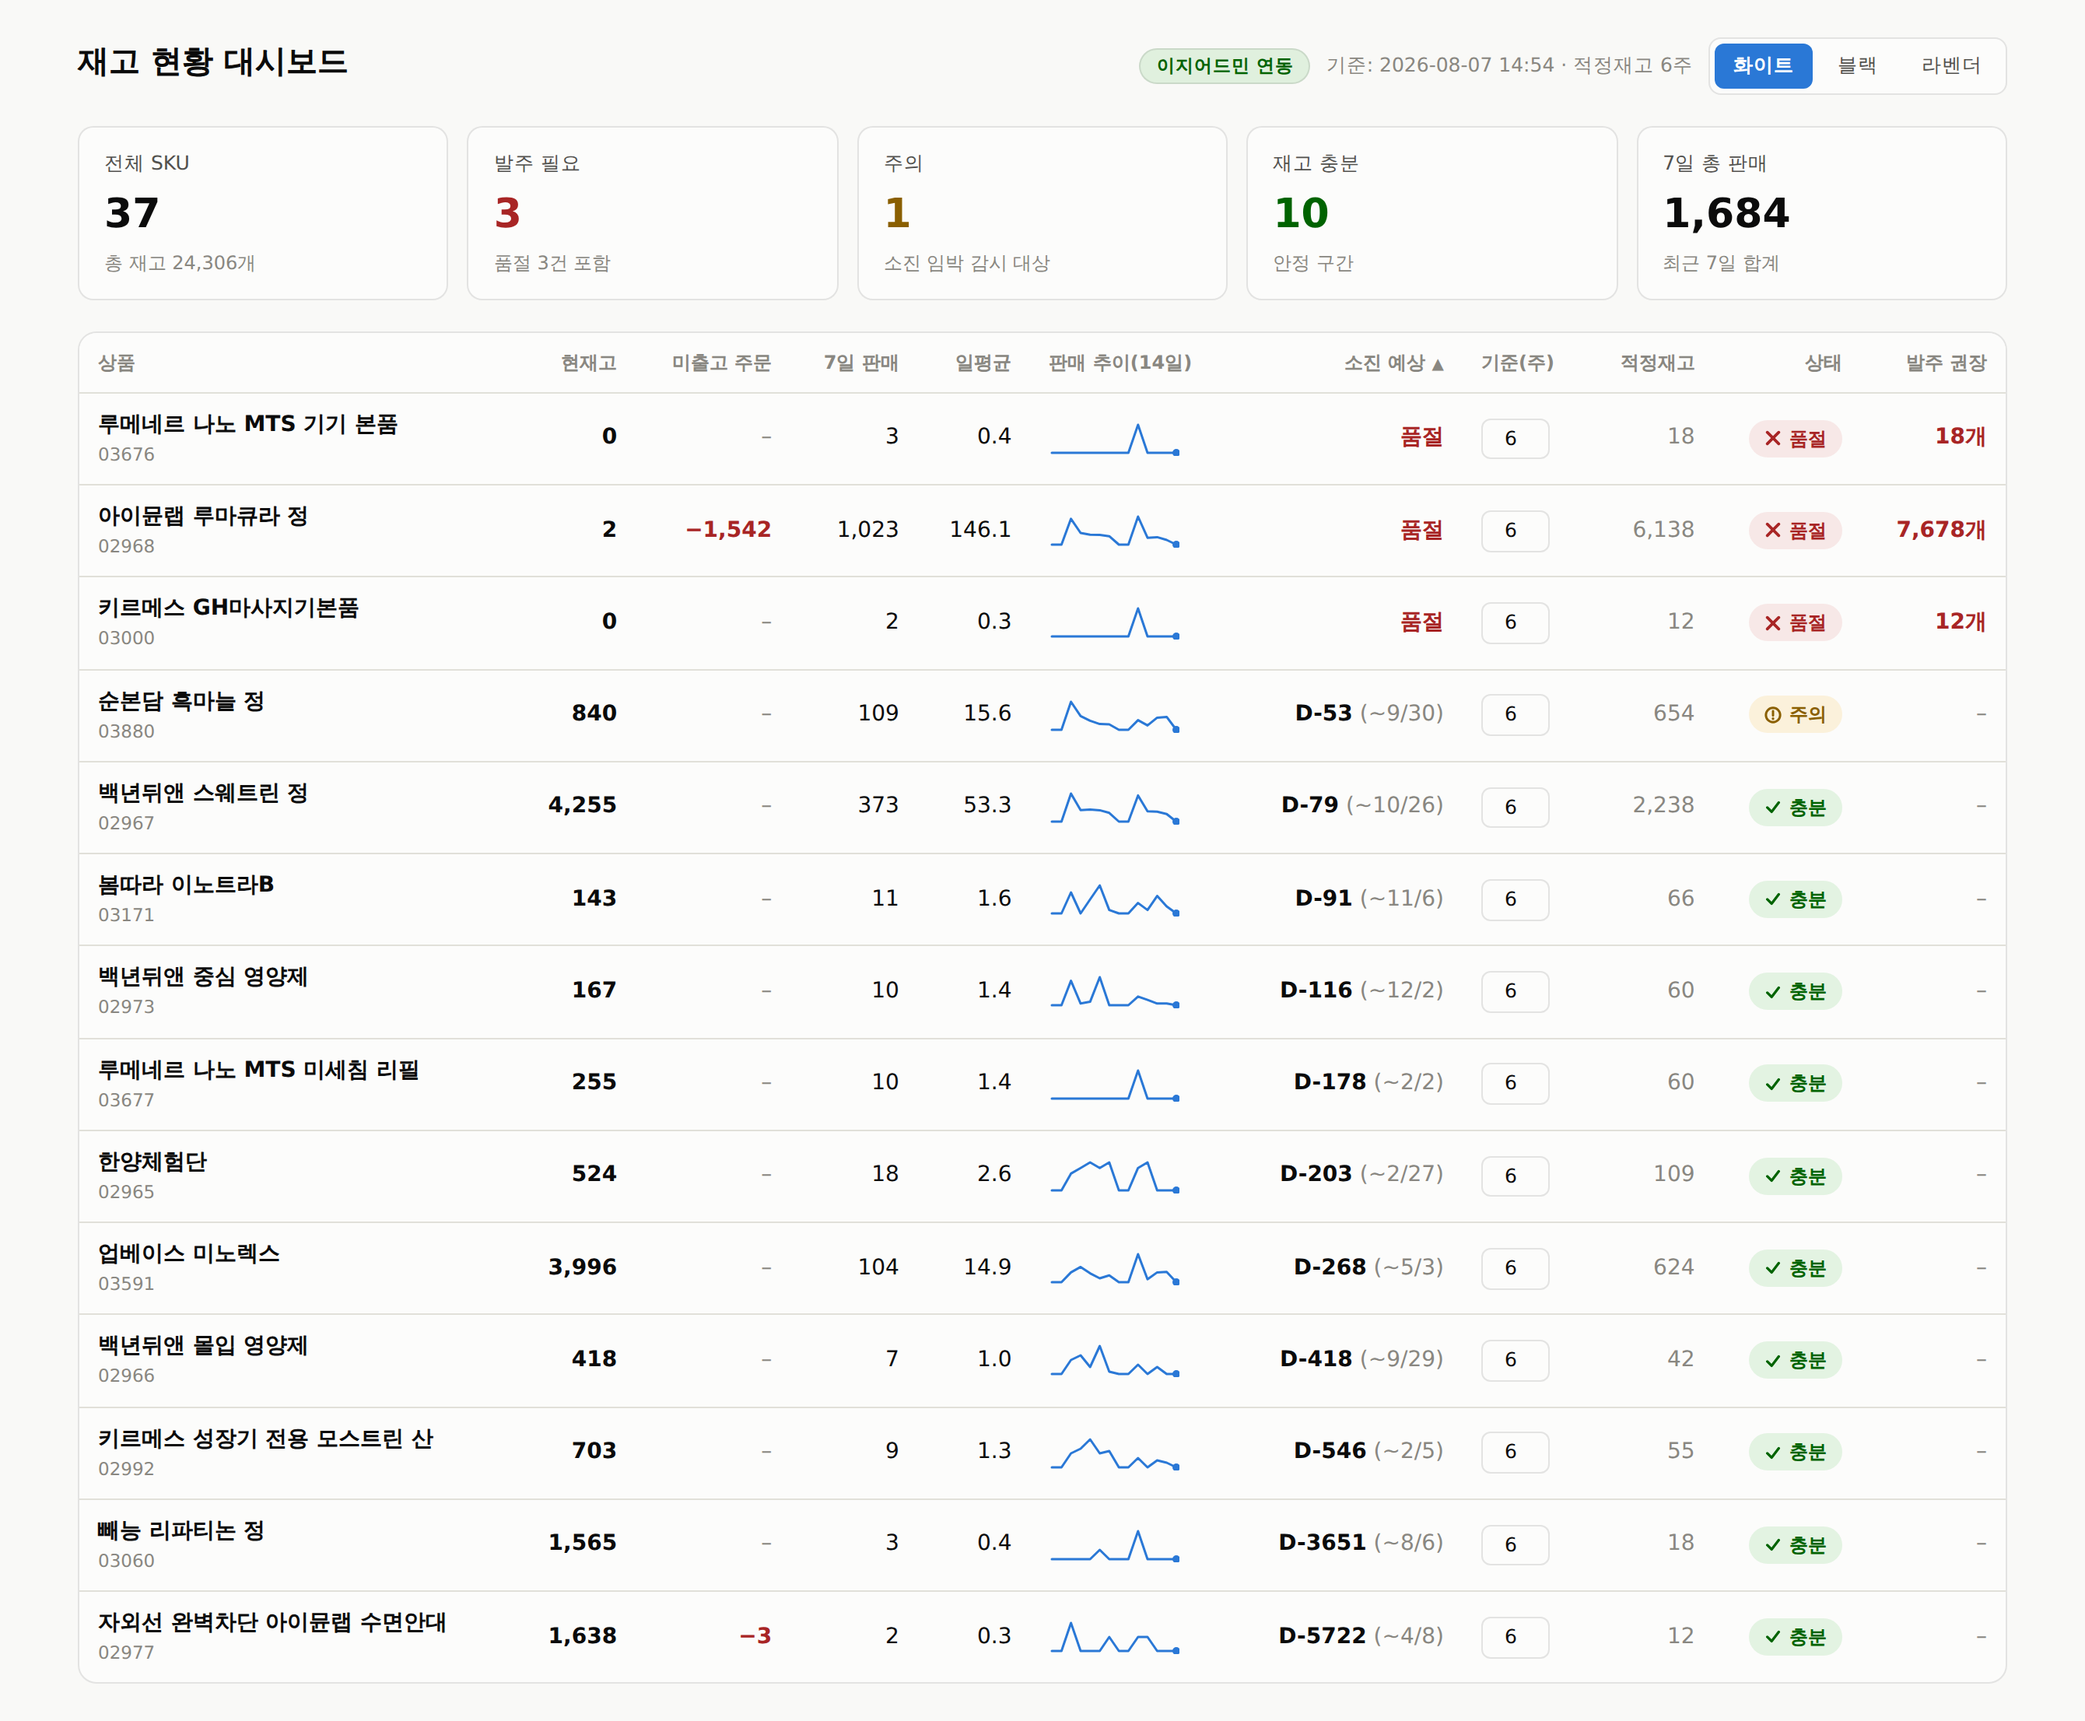
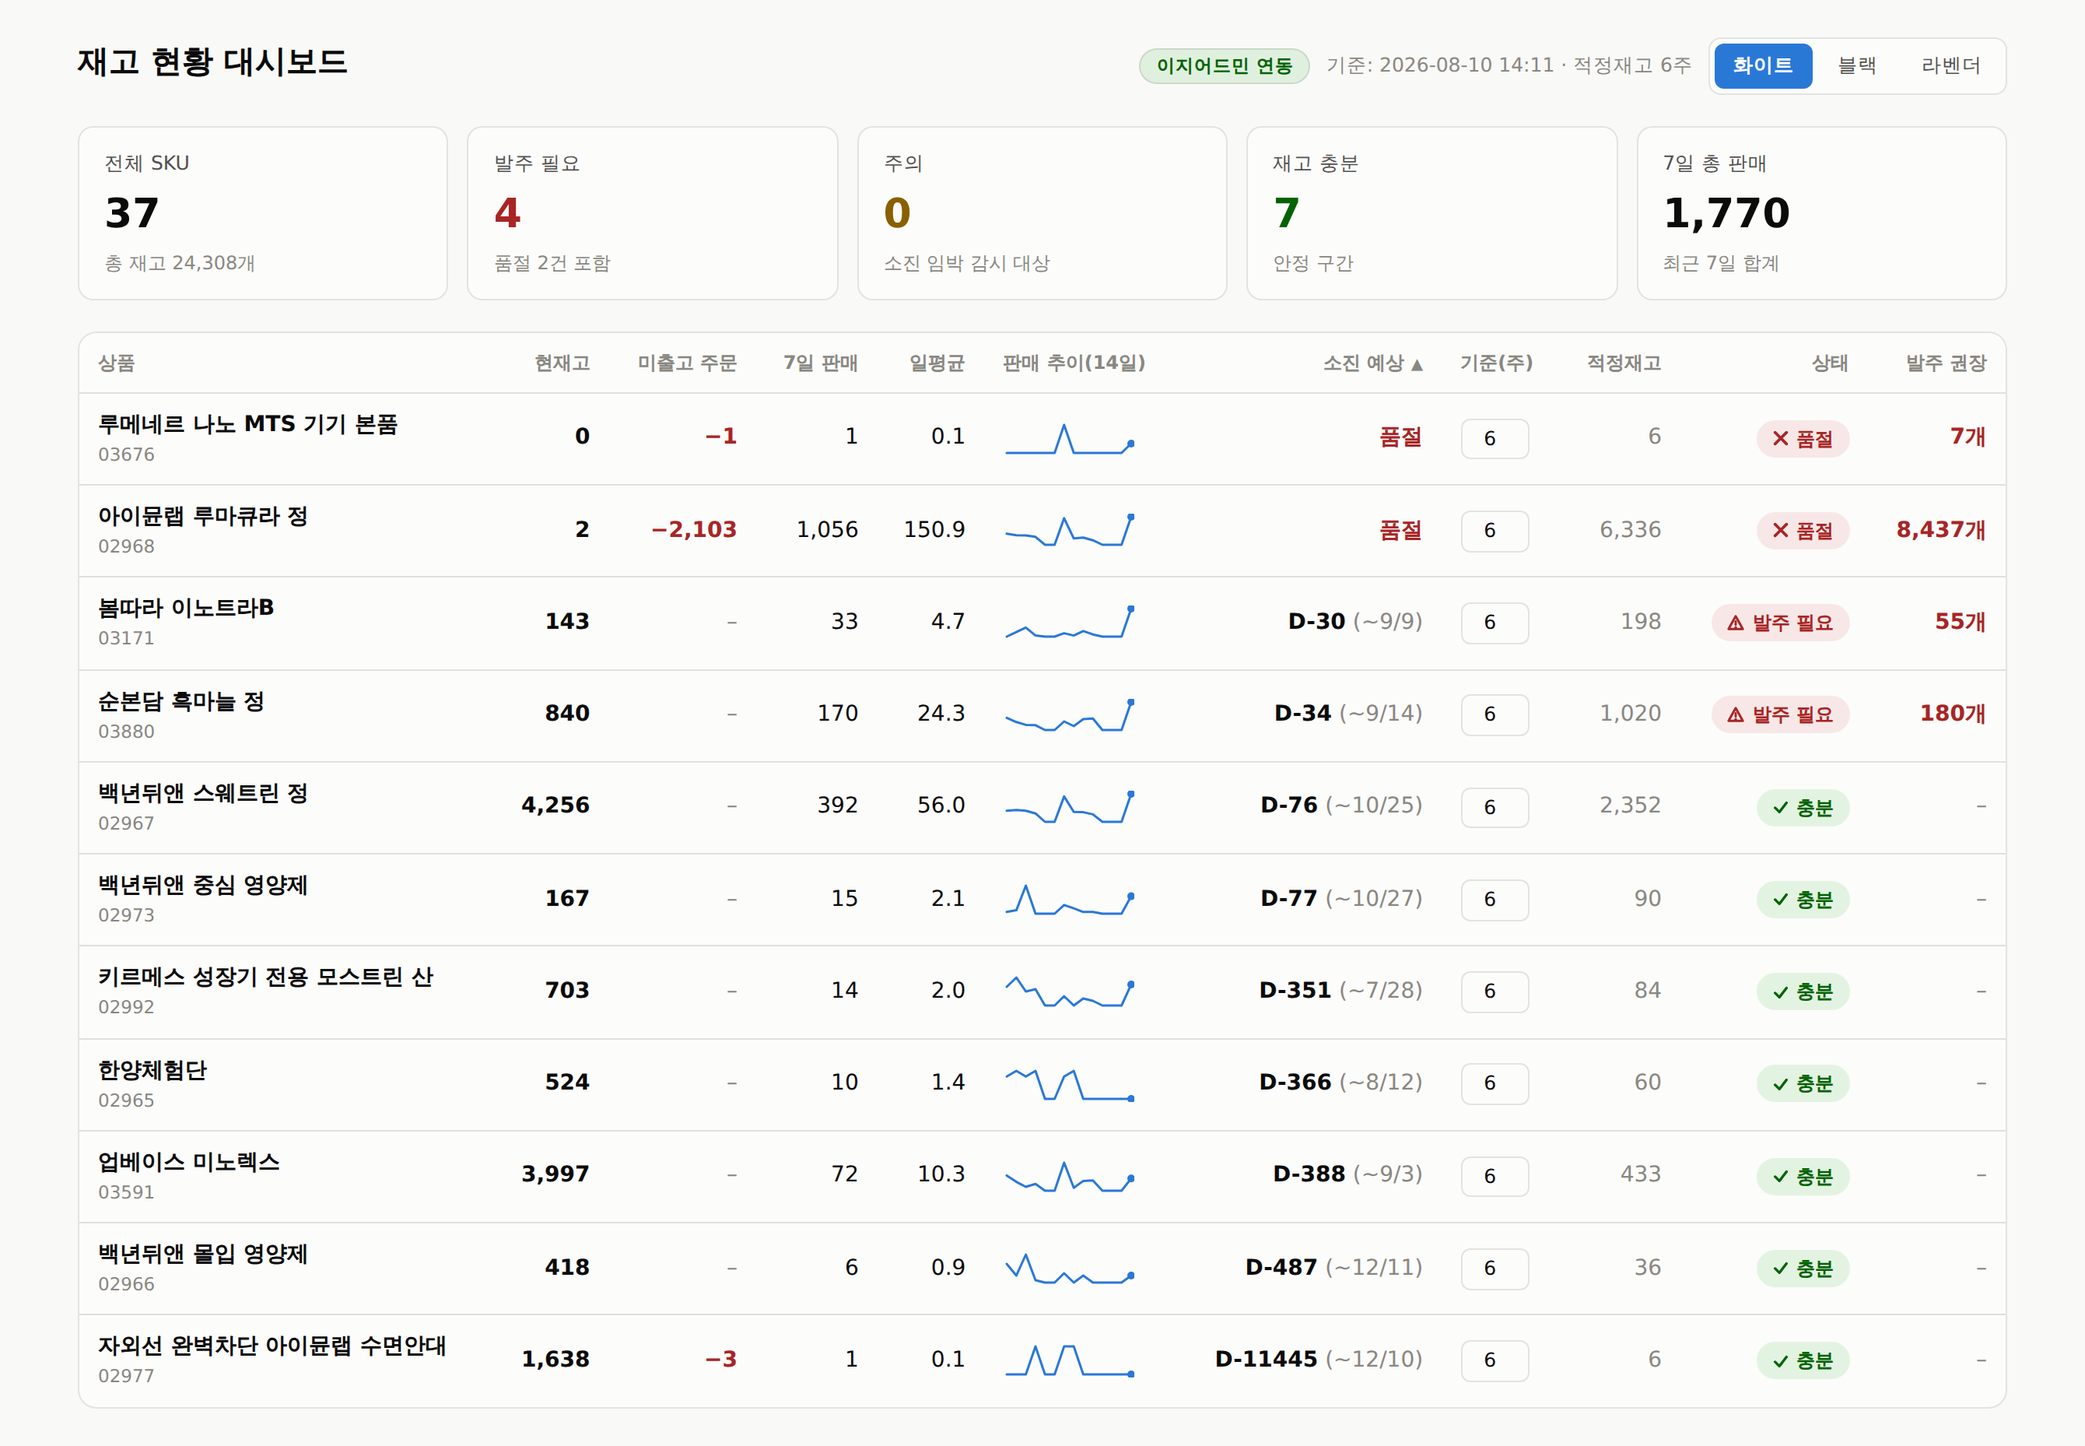
재고 대시보드 자동 갱신

diff --git a/index.html b/index.html
@@ -258,7 +258,7 @@
    stock: 정상재고, backlog: 접수(미출고 주문), daily: 최근 14일 일별 발주수량(06-30→07-13),
    lead: 리드타임 override(없으면 기본값 사용)
    ============================================================ */
-const UPDATED_AT = "2026-08-07 14:54";
+const UPDATED_AT = "2026-08-10 14:11";
 const PRODUCTS = [
  {
   "code": "02991",
@@ -334,11 +334,8 @@ const PRODUCTS = [
   "name": "루메네르 나노 MTS 기기 본품",
   "opt": "",
   "stock": 0,
-  "backlog": 0,
+  "backlog": 1,
   "daily": [
-   0,
-   0,
-   0,
    0,
    0,
    0,
@@ -349,7 +346,10 @@ const PRODUCTS = [
    0,
    0,
    0,
-   0
+   0,
+   0,
+   0,
+   1
   ]
  },
  {
@@ -365,10 +365,10 @@ const PRODUCTS = [
    0,
    0,
    0,
-   0,
-   0,
-   0,
    10,
+   0,
+   0,
+   0,
    0,
    0,
    0,
@@ -497,9 +497,6 @@ const PRODUCTS = [
   "stock": 418,
   "backlog": 0,
   "daily": [
-   0,
-   0,
-   6,
    8,
    3,
    12,
@@ -510,19 +507,19 @@ const PRODUCTS = [
    0,
    3,
    0,
-   0
+   0,
+   0,
+   0,
+   3
   ]
  },
  {
   "code": "02967",
   "name": "백년뒤앤 스웨트린 정",
   "opt": "",
-  "stock": 4255,
+  "stock": 4256,
   "backlog": 0,
   "daily": [
-   0,
-   0,
-   193,
    79,
    84,
    78,
@@ -533,7 +530,10 @@ const PRODUCTS = [
    71,
    69,
    53,
-   0
+   0,
+   0,
+   0,
+   199
   ]
  },
  {
@@ -543,9 +543,6 @@ const PRODUCTS = [
   "stock": 167,
   "backlog": 0,
   "daily": [
-   0,
-   0,
-   14,
    1,
    2,
    16,
@@ -556,7 +553,10 @@ const PRODUCTS = [
    3,
    1,
    1,
-   0
+   0,
+   0,
+   0,
+   10
   ]
  },
  {
@@ -636,9 +636,6 @@ const PRODUCTS = [
   "backlog": 0,
   "daily": [
    0,
-   0,
-   6,
-   0,
    4,
    8,
    1,
@@ -648,7 +645,10 @@ const PRODUCTS = [
    1,
    5,
    2,
-   0
+   0,
+   0,
+   0,
+   25
   ]
  },
  {
@@ -660,14 +660,14 @@ const PRODUCTS = [
   "daily": [
    0,
    0,
-   0,
-   0,
-   0,
    1,
    0,
    0,
    0,
    3,
+   0,
+   0,
+   0,
    0,
    0,
    0,
@@ -732,7 +732,7 @@ const PRODUCTS = [
    2,
    0,
    0,
-   2,
+   0,
    0,
    0,
    0,
@@ -750,9 +750,6 @@ const PRODUCTS = [
   "stock": 840,
   "backlog": 0,
   "daily": [
-   0,
-   0,
-   78,
    38,
    25,
    16,
@@ -763,7 +760,10 @@ const PRODUCTS = [
    12,
    34,
    36,
-   0
+   0,
+   0,
+   0,
+   88
   ]
  },
  {
@@ -771,11 +771,8 @@ const PRODUCTS = [
   "name": "아이뮨랩 루마큐라 정",
   "opt": "",
   "stock": 2,
-  "backlog": 1542,
+  "backlog": 2103,
   "daily": [
-   0,
-   0,
-   563,
    255,
    218,
    214,
@@ -786,7 +783,10 @@ const PRODUCTS = [
    148,
    163,
    103,
-   0
+   0,
+   0,
+   0,
+   642
   ]
  },
  {
@@ -839,12 +839,9 @@ const PRODUCTS = [
   "code": "03591",
   "name": "업베이스 미노렉스",
   "opt": "",
-  "stock": 3996,
+  "stock": 3997,
   "backlog": 0,
   "daily": [
-   0,
-   0,
-   20,
    31,
    18,
    8,
@@ -855,7 +852,10 @@ const PRODUCTS = [
    6,
    20,
    21,
-   0
+   0,
+   0,
+   0,
+   25
   ]
  },
  {
@@ -959,15 +959,15 @@ const PRODUCTS = [
   "daily": [
    0,
    0,
-   2,
-   0,
-   0,
    0,
    1,
    0,
    0,
    1,
    1,
+   0,
+   0,
+   0,
    0,
    0,
    0
@@ -1009,10 +1009,10 @@ const PRODUCTS = [
    0,
    0,
    0,
-   0,
-   0,
-   0,
    2,
+   0,
+   0,
+   0,
    0,
    0,
    0,
@@ -1026,9 +1026,6 @@ const PRODUCTS = [
   "stock": 703,
   "backlog": 0,
   "daily": [
-   0,
-   0,
-   6,
    8,
    12,
    6,
@@ -1039,7 +1036,10 @@ const PRODUCTS = [
    0,
    3,
    2,
-   0
+   0,
+   0,
+   0,
+   9
   ]
  },
  {
@@ -1095,9 +1095,6 @@ const PRODUCTS = [
   "stock": 524,
   "backlog": 0,
   "daily": [
-   0,
-   0,
-   6,
    8,
    10,
    8,
@@ -1106,6 +1103,9 @@ const PRODUCTS = [
    0,
    8,
    10,
+   0,
+   0,
+   0,
    0,
    0,
    0
